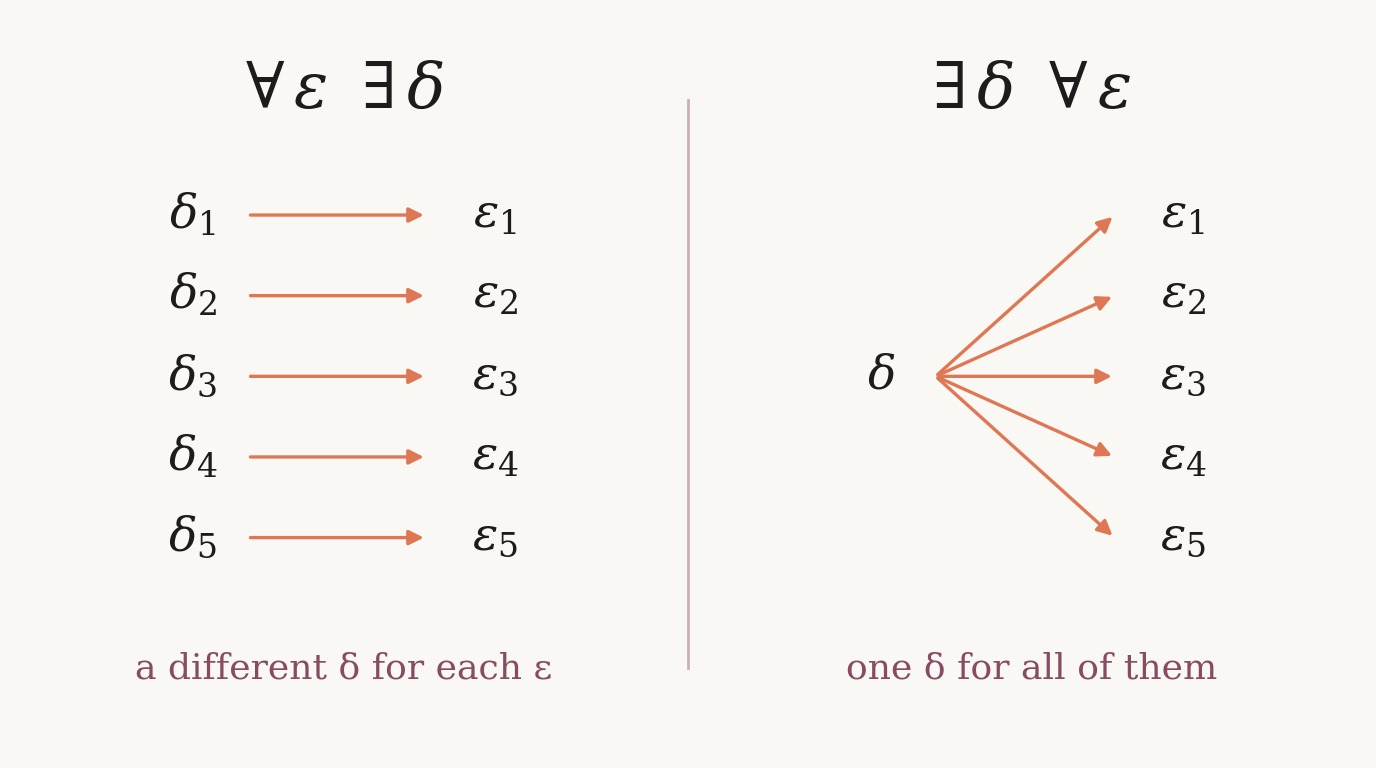
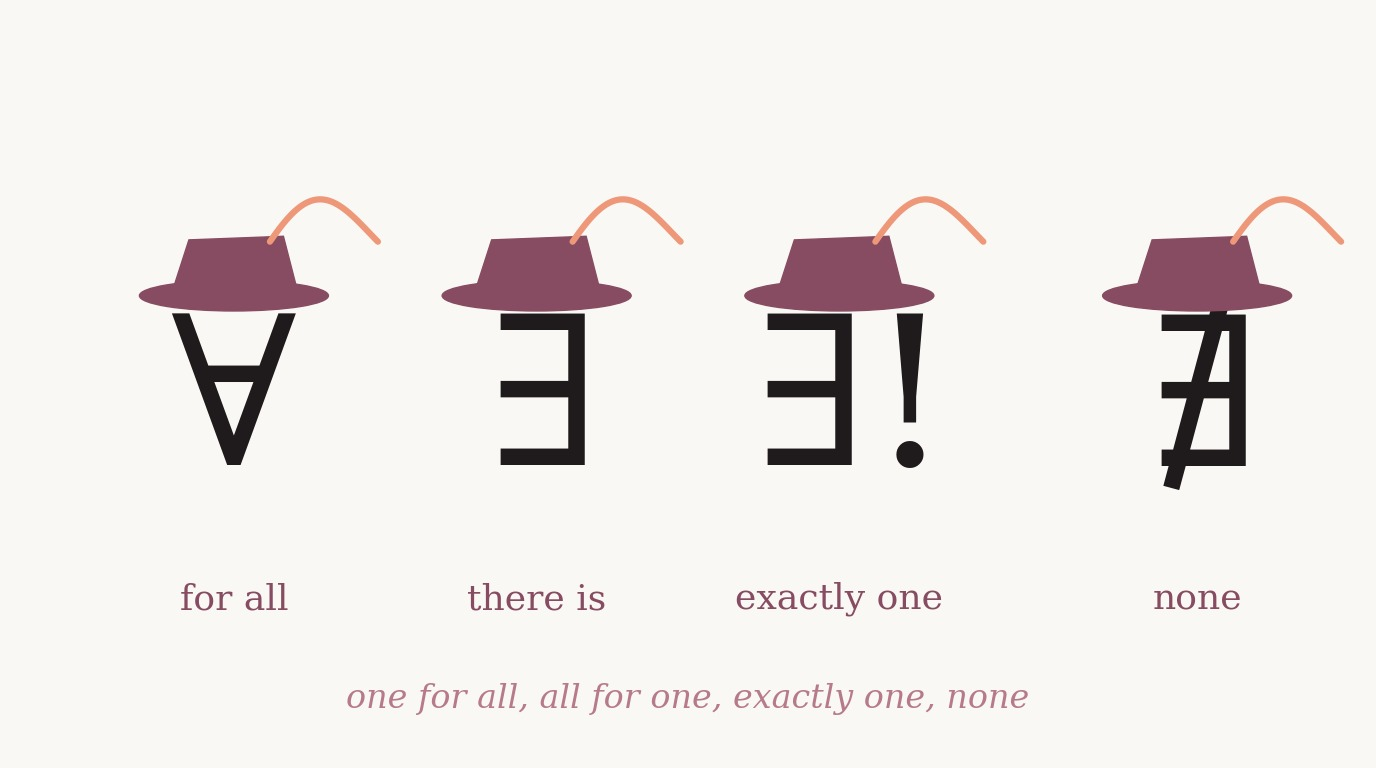
quantifiers: 'One for All, All for One: ∀, ∃ and Friends', musketeer card image, page plan

diff --git a/quantifiers/eps_delta_diagrams.html b/quantifiers/eps_delta_diagrams.html
@@ -1,4 +1,4 @@
-<!-- The two ε-δ diagrams (inline SVG + Tailwind classes), taken out of projects/math-writing.html on 2026-10-16 for the card '∀ and ∃: A Quick Logic Lesson'. -->
+<!-- The two ε-δ diagrams (inline SVG + Tailwind classes), taken out of projects/math-writing.html on 2026-10-16 for the card 'One for All, All for One: ∀, ∃ and Friends'. -->
 
             <div class="grid grid-cols-1 sm:grid-cols-2 gap-4 max-w-xl mx-auto">
               <div class="rounded-xl bg-brand-ivory border border-brand-coral/20 p-4 space-y-2">

diff --git a/quantifiers/quantifiers_card.py b/quantifiers/quantifiers_card.py
@@ -1,13 +1,14 @@
-"""Card image for '∀ and ∃: A Quick Logic Lesson': left ∀ε ∃δ (every ε gets its own δ), right ∃δ ∀ε (one δ for all).
-Usage: python quantifiers_card.py out.jpg"""
+"""Card image for 'One for All, All for One: ∀, ∃ and Friends': the four quantifiers as four musketeers,
+each with a hat; ∄ stands a little apart, like d'Artagnan. Usage: python quantifiers_card.py out.jpg"""
 import sys
+import numpy as np
 import matplotlib
 matplotlib.use('Agg')
 import matplotlib.pyplot as plt
-from matplotlib.patches import FancyArrowPatch
+from matplotlib.patches import Ellipse, Polygon
 
 W, H = 1376, 768
-IVORY, ROSE, TERRA, DARK, PLUM = '#FAF8F5', '#B77A8A', '#DF7654', '#1F1A1C', '#874C62'
+IVORY, ROSE, TERRA, DARK, PLUM, CORAL = '#FAF8F5', '#B77A8A', '#DF7654', '#1F1A1C', '#874C62', '#EE9779'
 plt.rcParams['mathtext.fontset'] = 'dejavuserif'
 
 fig = plt.figure(figsize=(W / 100, H / 100), dpi=100)
@@ -17,29 +18,27 @@ ax.set_facecolor(IVORY)
 ax.axis('off')
 ax.set_xlim(0, W)
 ax.set_ylim(0, H)
-
-ax.plot([W / 2, W / 2], [100, H - 100], color=ROSE, lw=2, alpha=0.6)
-rows = [H * 0.72 - i * 0.105 * H for i in range(5)]
+ax.set_aspect('equal')
 
 
-def arrow(x0, y0, x1, y1):
-    ax.add_patch(FancyArrowPatch((x0, y0), (x1, y1), arrowstyle='-|>', mutation_scale=22, lw=2.4, color=TERRA))
+def hat(x, y, scale=1.0, color=PLUM):
+    """A musketeer hat: wide brim, soft crown, a feather."""
+    ax.add_patch(Ellipse((x, y), 210 * scale, 34 * scale, color=color, zorder=3))
+    ax.add_patch(Polygon([(x - 70 * scale, y), (x - 50 * scale, y + 62 * scale), (x + 55 * scale, y + 66 * scale), (x + 72 * scale, y)],
+                         closed=True, color=color, zorder=3))
+    t = np.linspace(0, 1, 60)
+    fx = x + 40 * scale + 120 * scale * t
+    fy = y + 60 * scale + 55 * scale * np.sin(np.pi * t) * (1 - 0.3 * t)
+    ax.plot(fx, fy, color=CORAL, lw=5 * scale, solid_capstyle='round', zorder=4)
 
 
-# left: ∀ε ∃δ, a different δ for each ε
-ax.text(W * 0.25, H - 90, r'$\forall\, \varepsilon\;\; \exists\, \delta$', ha='center', va='center', fontsize=46, color=DARK)
-for i, y in enumerate(rows, 1):
-    ax.text(W * 0.14, y, r'$\delta_%d$' % i, ha='center', va='center', fontsize=34, color=DARK)
-    arrow(W * 0.18, y, W * 0.31, y)
-    ax.text(W * 0.36, y, r'$\varepsilon_%d$' % i, ha='center', va='center', fontsize=34, color=DARK)
-ax.text(W * 0.25, H * 0.13, 'a different δ for each ε', ha='center', va='center', fontsize=26, family='serif', color=PLUM)
+symbols = [(r'$\forall$', 'for all'), (r'$\exists$', 'there is'), (r'$\exists!$', 'exactly one'), (r'$\nexists$', 'none')]
+xs = [W * 0.17, W * 0.39, W * 0.61, W * 0.87]       # the fourth stands a little apart
+for (sym, word), x in zip(symbols, xs):
+    ax.text(x, H * 0.47, sym, ha='center', va='center', fontsize=150, color=DARK)
+    hat(x, H * 0.615, 0.9)
+    ax.text(x, H * 0.22, word, ha='center', va='center', fontsize=26, family='serif', color=PLUM)
 
-# right: ∃δ ∀ε, one δ for all
-ax.text(W * 0.75, H - 90, r'$\exists\, \delta\;\; \forall\, \varepsilon$', ha='center', va='center', fontsize=46, color=DARK)
-ax.text(W * 0.64, rows[2], r'$\delta$', ha='center', va='center', fontsize=34, color=DARK)
-for i, y in enumerate(rows, 1):
-    arrow(W * 0.68, rows[2], W * 0.81, y)
-    ax.text(W * 0.86, y, r'$\varepsilon_%d$' % i, ha='center', va='center', fontsize=34, color=DARK)
-ax.text(W * 0.75, H * 0.13, 'one δ for all of them', ha='center', va='center', fontsize=26, family='serif', color=PLUM)
+ax.text(W * 0.5, H * 0.09, 'one for all, all for one, exactly one, none', ha='center', va='center', fontsize=24, family='serif', style='italic', color=ROSE)
 
 fig.savefig(sys.argv[1], dpi=100, facecolor=IVORY, pil_kwargs={'quality': 92})

diff --git a/quantifiers/README.md b/quantifiers/README.md
@@ -1,11 +1,11 @@
-# ∀ and ∃: A Quick Logic Lesson
+# One for All, All for One: ∀, ∃ and Friends
 
 Article: [https://belindata.com/projects/quantifiers.html](https://belindata.com/projects/quantifiers.html) (coming soon)
 
-- `quantifiers_card.py`: the card image: ∀ε ∃δ (a different δ for each ε) next to ∃δ ∀ε (one δ for all of them)
+- `quantifiers_card.py`: the card image: ∀, ∃, ∃! and ∄ as four musketeers, the fourth standing a little apart
 - `card_quantifiers.jpg`: the image as used on the site
 - `eps_delta_diagrams.html`: the two inline-SVG diagrams that used to sit in the Math Writing article, kept for the future page
 
-Plan for the page: the example that shows what the order does: ∀ε ∃δ (with |x−y|<δ ⇒ |f(x)−f(y)|<ε) is uniform continuity, ∃δ ∀ε is satisfied on ℝ only by constant functions. Kept out of the teaser on purpose.
+Plan for the page (agreed 2026-10-16): the four signs ∀x P(x), ∃x P(x), ∃!x P(x) = ∃x (P(x) ∧ ∀y (P(y) ⇒ y = x)), ∄x P(x) ≡ ¬∃x P(x) ≡ ∀x ¬P(x); negation rules ¬∀ = ∃¬, ¬∃ = ∀¬; order: ∃y∀x ⇒ ∀x∃y but not back (everyone has a mother vs. a mother of everyone); musketeer reading: one for all = ∃∀, all for one = ∀∃, exactly one = ∃!, none = ∄; interactive idea: four musketeers with sword/hat/horse toggles and clickable statements that turn true/false. Also the example that shows what the order does: ∀ε ∃δ (with |x−y|<δ ⇒ |f(x)−f(y)|<ε) is uniform continuity, ∃δ ∀ε is satisfied on ℝ only by constant functions. Kept out of the teaser on purpose.
 
 Python scripts need `numpy` and `matplotlib` (`pip install -r ../requirements.txt`).

diff --git a/README.md b/README.md
@@ -28,7 +28,7 @@ The code behind [The Playground](https://belindata.com/playground.html) on belin
 | [Two Answers I Owed My Examiner](https://belindata.com/projects/numerics-exam.html) | [`numerics-exam/`](numerics-exam/) |  | `ode_numerics_cards.py` |
 | [Eigenvalues, Finally Explained](https://belindata.com/projects/eigenvalues.html) | [`eigenvalues/`](eigenvalues/) |  | `eigenvalues_card.py` |
 | [= or ⇔? Nerdy, but It Matters](https://belindata.com/projects/equals-iff.html) | [`equals-iff/`](equals-iff/) |  | `equals_iff_card.py` |
-| [∀ and ∃: A Quick Logic Lesson](https://belindata.com/projects/quantifiers.html) | [`quantifiers/`](quantifiers/) |  | `quantifiers_card.py` |
+| [One for All, All for One: ∀, ∃ and Friends](https://belindata.com/projects/quantifiers.html) | [`quantifiers/`](quantifiers/) |  | `quantifiers_card.py` |
 | [A Car From Above: My First Lesson in 3D Visualization](https://belindata.com/projects/car-from-above.html) | [`car-from-above/`](car-from-above/) |  | `car_from_above_card.py` |
 | [About Fat and Thin Triangles](https://belindata.com/projects/triangles.html) | [`triangles/`](triangles/) |  | `triangles_card.py` |
 | [About Fat and Thin Matrices](https://belindata.com/projects/sparse-dense.html) | [`sparse-dense/`](sparse-dense/) |  | `sparse_dense_card.py` |
